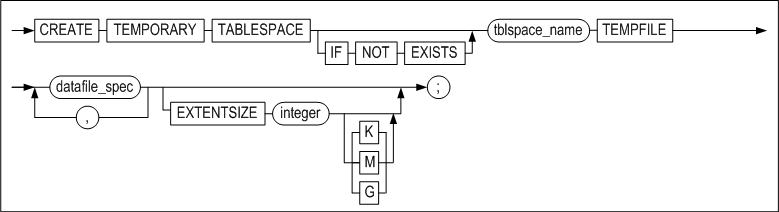
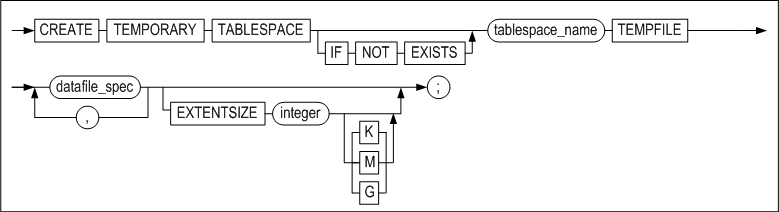
BUG-51005 Update several manuals
tblspace_name 오류 수정

Changed region(s): [[0.6162, 0.0849, 0.8935, 0.2264]]

diff --git a/Manuals/Altibase_7.1/eng/SQL Reference.md b/Manuals/Altibase_7.1/eng/SQL Reference.md
@@ -7706,7 +7706,7 @@ DATA
 
 This keyword is used to specify that the tablespace to be created will be used to store user data. A data tablespace is created even when the CREATE TABLESPACE statement is executed without the DATA keyword.
 
-*tblspace_name*
+*tablespace_name*
 
 This is used to specify the name of the tablespace to be created. Refer to “Rules for Object Names” in Chapter 2 for more information on specifying names.
 
@@ -7966,7 +7966,7 @@ Create success.
 
 #### Syntax 
 
-**create_tablespace ::=**
+**create_volatile_tablespace ::=**
 
 ![create_tablespace_image145](media/SQL/create_tablespace_image145.gif)
 
@@ -8073,7 +8073,7 @@ Create success.
 
 **create_temporary_tablespace ::=**
 
-![create_temporary_tablespace_image148](media/SQL/create_temporary_tablespace_image148.gif)
+![create_temporary_tablespace](media/SQL/create_temporary_tablespace.png)
 
 **datafile_spec ::=**
 
@@ -8093,7 +8093,7 @@ This command is used to create a temporary tablespace for storing temporary resu
 
 To create a tablespace in which to store database objects permanently, use the CREATE DISK TABLESPACE statement.
 
-*tblspace_name*
+*tablespace_name*
 
 This is used to specify the name of the temporary tablespace to be created. Refer to “Rules for Object Names” in Chapter 2 for more information on specifying names.
 
@@ -9210,7 +9210,7 @@ Drop success.
 
 **drop_tablespace ::=**
 
-![drop_tablespace_image167](media/SQL/drop_tablespace_image167.gif)
+![drop_tablespace](media/SQL/drop_tablespace.png)
 
 #### Prerequisites
 
@@ -9220,7 +9220,7 @@ Only the SYS user and users with the DROP TABLESPACE system privilege can execut
 
 This statement is used to remove a tablespace from the database. 
 
-*tblspace_name*
+*tablespace_name*
 
 This is used to specify the name of the tablespace to drop.
 

diff --git a/Manuals/Altibase_7.3/eng/SQL Reference.md b/Manuals/Altibase_7.3/eng/SQL Reference.md
@@ -7676,7 +7676,7 @@ DATA
 
 This keyword is used to specify that the tablespace to be created will be used to store user data. A data tablespace is created even when the CREATE TABLESPACE statement is executed without the DATA keyword.
 
-*tblspace_name*
+*tablespace_name*
 
 This is used to specify the name of the tablespace to be created. Refer to “Rules for Object Names” in Chapter 2 for more information on specifying names.
 
@@ -7936,7 +7936,7 @@ Create success.
 
 #### Syntax 
 
-**create_tablespace ::=**
+**create_volatile_tablespace ::=**
 
 ![create_tablespace_image145](media/SQL/create_tablespace_image145.gif)
 
@@ -8043,7 +8043,7 @@ Create success.
 
 **create_temporary_tablespace ::=**
 
-![create_temporary_tablespace_image148](media/SQL/create_temporary_tablespace_image148.gif)
+![create_temporary_tablespace](media/SQL/create_temporary_tablespace.png)
 
 **datafile_spec ::=**
 
@@ -8063,7 +8063,7 @@ This command is used to create a temporary tablespace for storing temporary resu
 
 To create a tablespace in which to store database objects permanently, use the CREATE DISK TABLESPACE statement.
 
-*tblspace_name*
+*tablespace_name*
 
 This is used to specify the name of the temporary tablespace to be created. Refer to “Rules for Object Names” in Chapter 2 for more information on specifying names.
 
@@ -9175,7 +9175,7 @@ Drop success.
 
 **drop_tablespace ::=**
 
-![drop_tablespace_image167](media/SQL/drop_tablespace_image167.gif)
+![drop_tablespace](media/SQL/drop_tablespace.png)
 
 #### Prerequisites
 
@@ -9185,7 +9185,7 @@ Only the SYS user and users with the DROP TABLESPACE system privilege can execut
 
 This statement is used to remove a tablespace from the database. 
 
-*tblspace_name*
+*tablespace_name*
 
 This is used to specify the name of the tablespace to drop.
 

diff --git a/Manuals/Altibase_trunk/eng/SQL Reference.md b/Manuals/Altibase_trunk/eng/SQL Reference.md
@@ -7675,7 +7675,7 @@ DATA
 
 This keyword is used to specify that the tablespace to be created will be used to store user data. A data tablespace is created even when the CREATE TABLESPACE statement is executed without the DATA keyword.
 
-*tblspace_name*
+*tablespace_name*
 
 This is used to specify the name of the tablespace to be created. Refer to “Rules for Object Names” in Chapter 2 for more information on specifying names.
 
@@ -8062,7 +8062,7 @@ This command is used to create a temporary tablespace for storing temporary resu
 
 To create a tablespace in which to store database objects permanently, use the CREATE DISK TABLESPACE statement.
 
-*tblspace_name*
+*tablespace_name*
 
 This is used to specify the name of the temporary tablespace to be created. Refer to “Rules for Object Names” in Chapter 2 for more information on specifying names.
 
@@ -9212,7 +9212,7 @@ This statement is used to remove a tablespace from the database.
 
 If the IF EXISTS clause is used, the DROP statement runs without error even if the tablespace does not exist.
 
-*tblspace_name*
+*tablespace_name*
 
 This is used to specify the name of the tablespace to drop.
 
